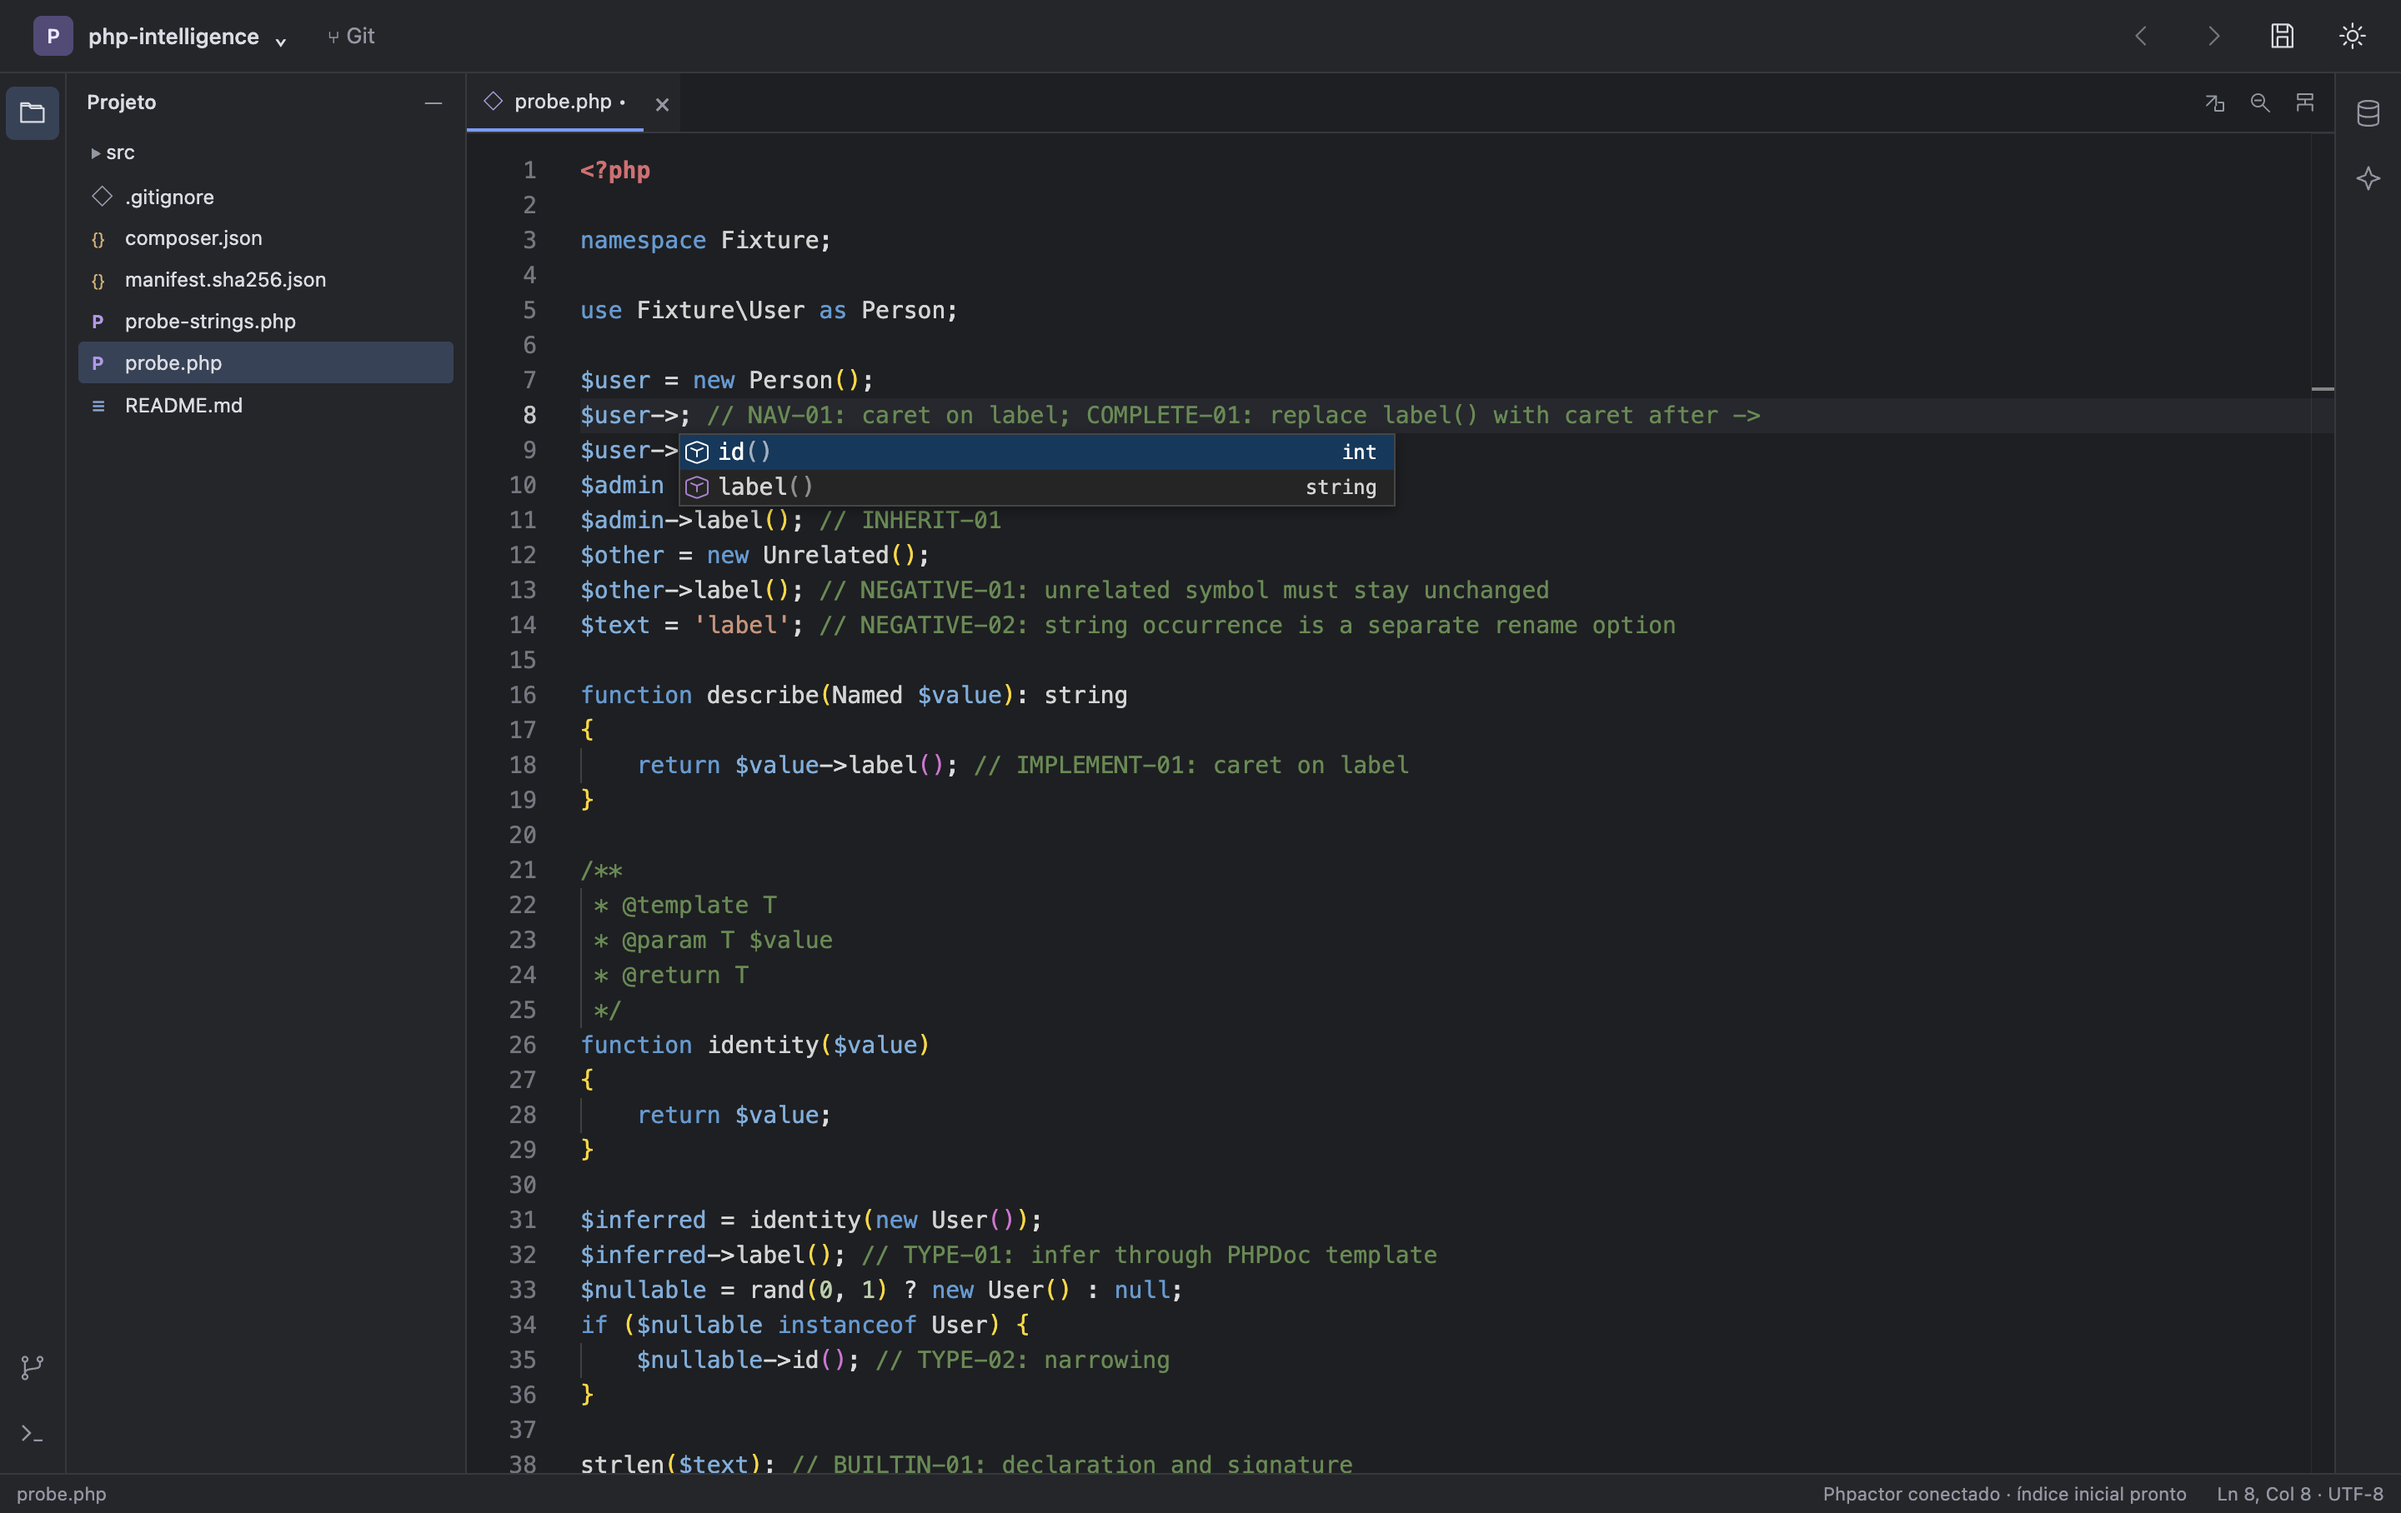
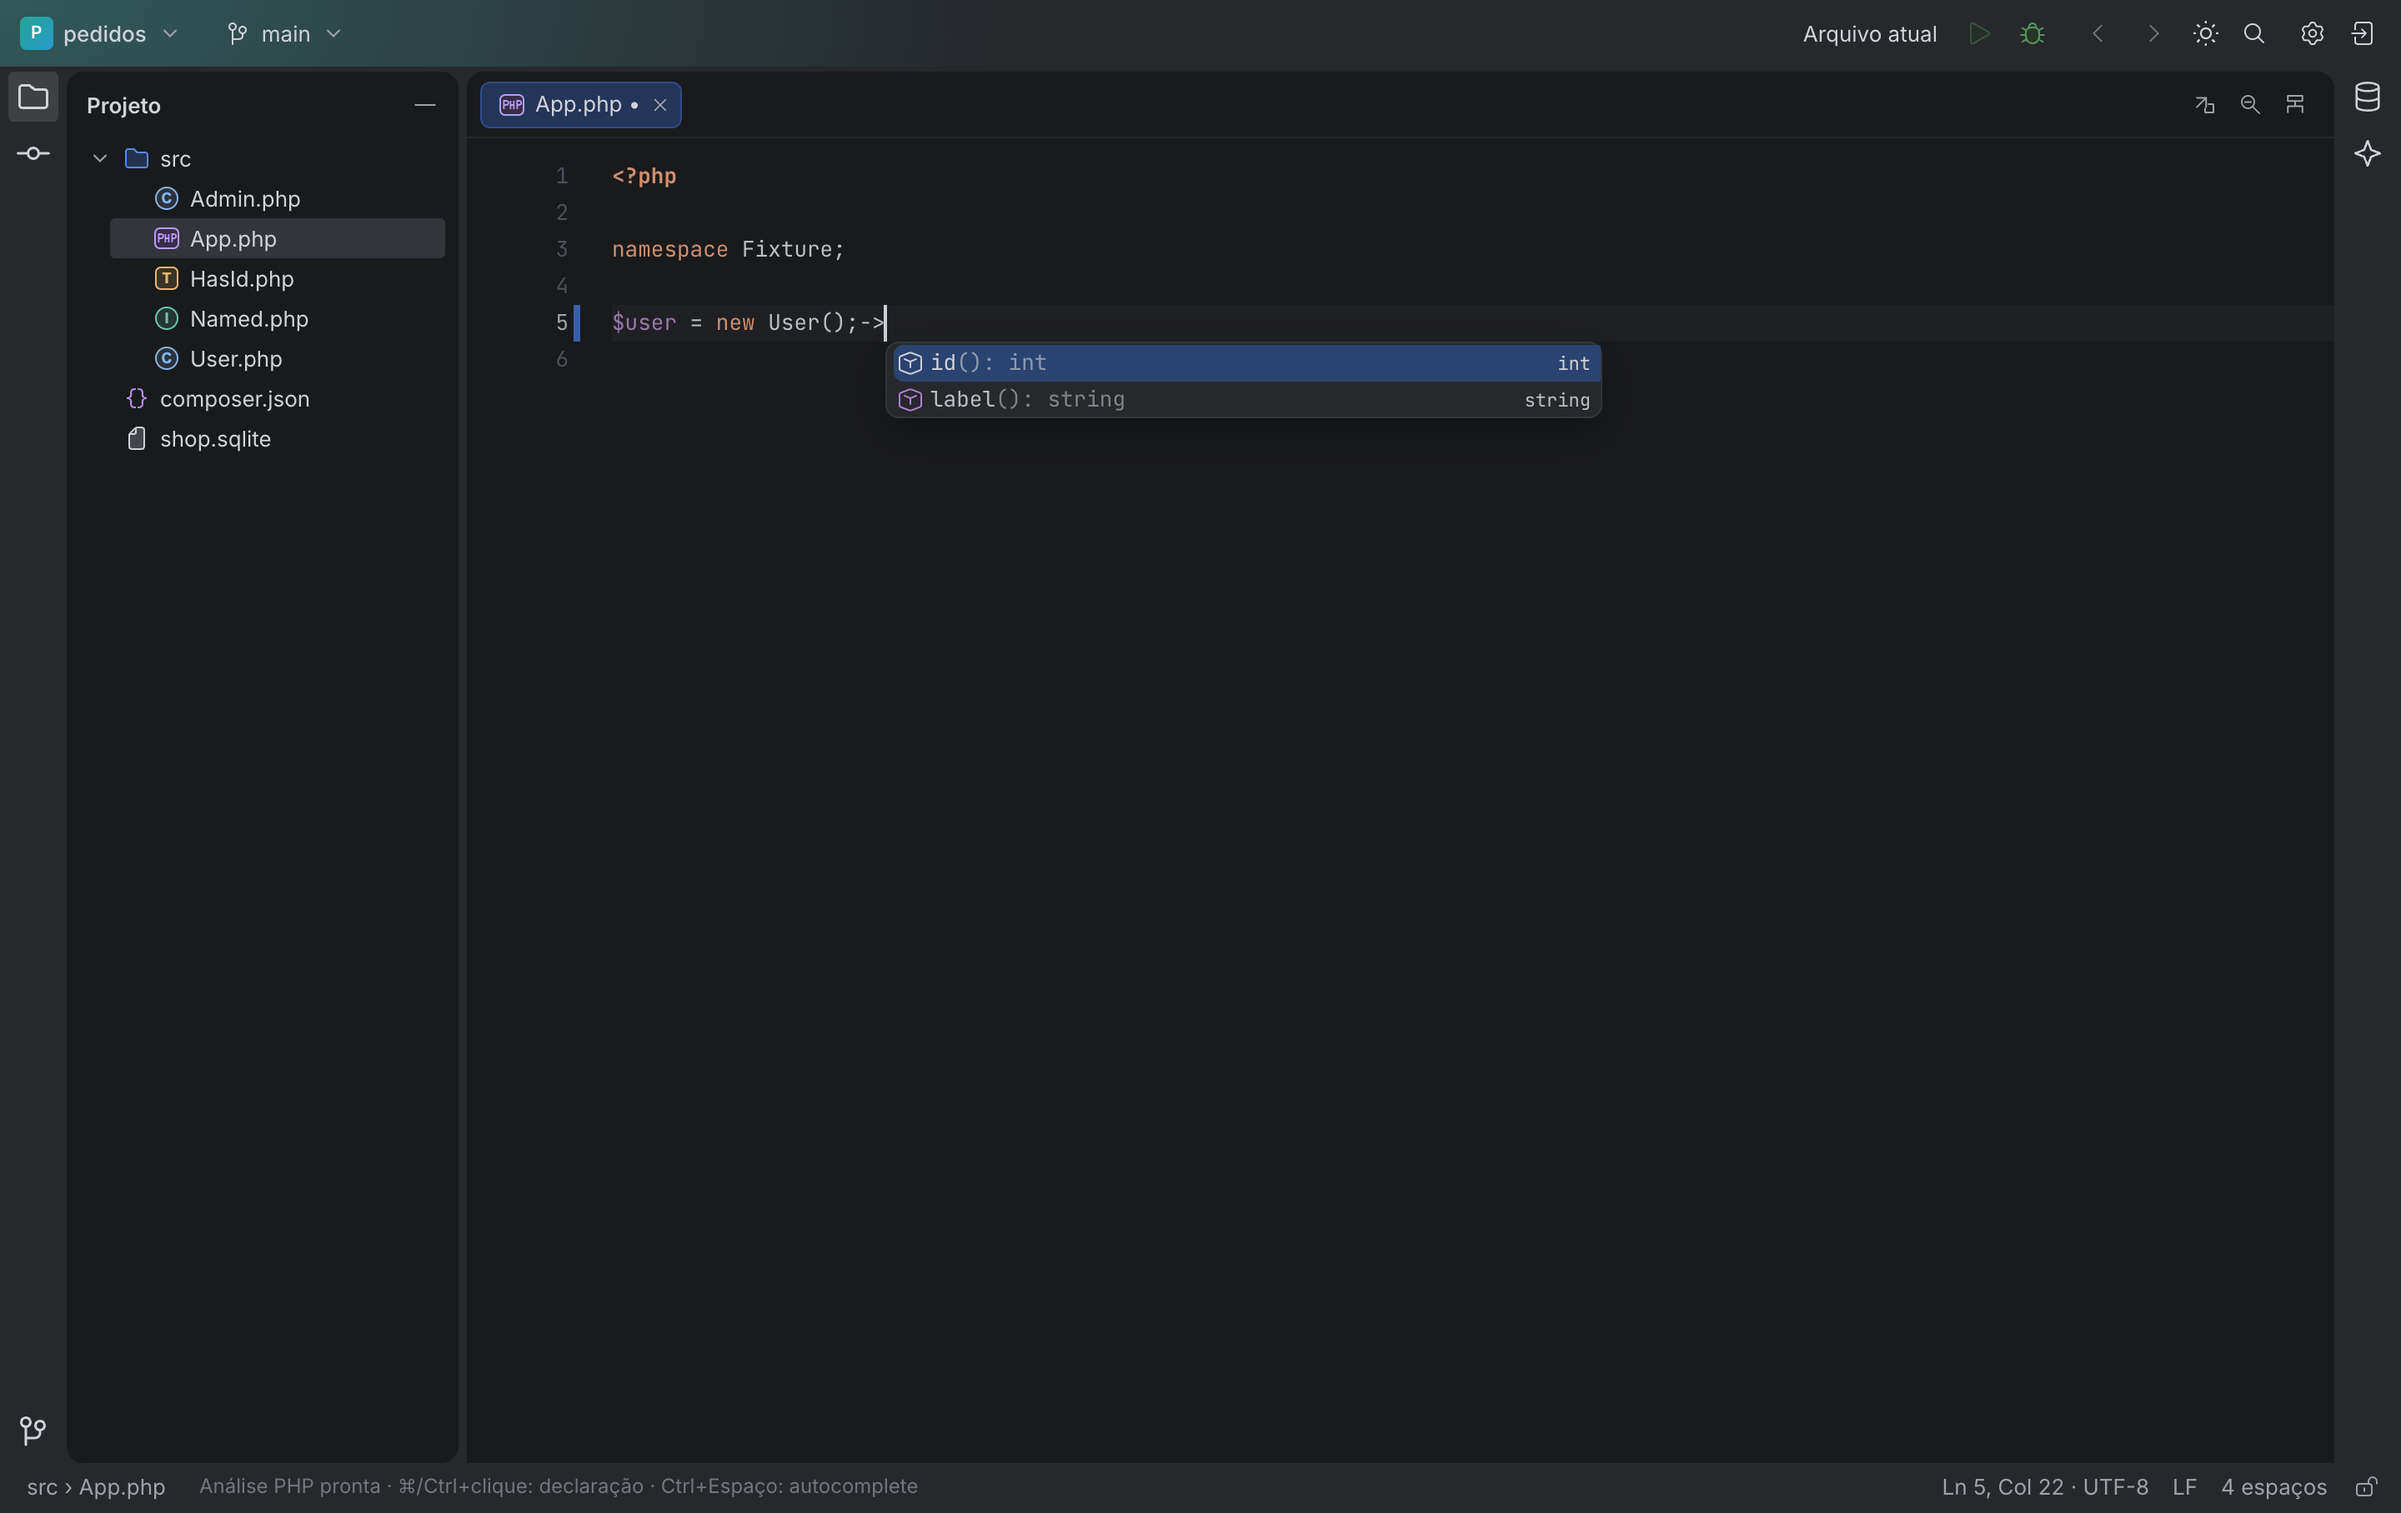
Show the current PHP IDE workspace on the website.

diff --git a/website/index.html b/website/index.html
@@ -43,7 +43,7 @@
       <div class="section-heading"><div><span class="eyebrow">POR DENTRO DA IDE</span><h2 id="prints-titulo">Veja o ambiente de trabalho.</h2></div><p>Capturas da aplicação com projetos de teste.<br>Clique nas imagens para ver em tamanho original.</p></div>
       <div class="screenshot-grid">
         <figure class="product-shot"><a href="./screenshots/php-navigation.png" target="_blank" rel="noopener" aria-label="Ampliar captura do editor PHP (nova aba)"><img src="./screenshots/php-navigation.png" width="2880" height="1816" loading="lazy" alt="Editor PHP com interface Named aberta, árvore de arquivos e painel de consulta ao agente."></a><figcaption><strong>O código no centro.</strong> Arquivos, abas e ferramentas lado a lado.</figcaption></figure>
-        <figure class="product-shot"><a href="./screenshots/database.png" target="_blank" rel="noopener" aria-label="Ampliar captura do banco de dados (nova aba)"><img src="./screenshots/database.png" width="1000" height="700" loading="lazy" alt="Código PHP junto ao painel de fontes de dados e uma tabela de clientes de teste, com paginação."></a><figcaption><strong>Dados junto ao projeto.</strong> Explore tabelas sem sair do editor.</figcaption></figure>
+        <figure class="product-shot"><a href="./screenshots/database.png" target="_blank" rel="noopener" aria-label="Ampliar captura do banco de dados (nova aba)"><img src="./screenshots/database.png" width="2880" height="1816" loading="lazy" alt="Código PHP junto ao painel Database e uma tabela de clientes de teste, com paginação."></a><figcaption><strong>Dados junto ao projeto.</strong> Explore tabelas sem sair do editor.</figcaption></figure>
       </div>
     </section>
     <section id="downloads" class="download-section"><div class="wrap">

diff --git a/website/en.html b/website/en.html
@@ -43,7 +43,7 @@
       <div class="section-heading"><div><span class="eyebrow">INSIDE THE IDE</span><h2 id="prints-titulo">Explore the workspace.</h2></div><p>Application screenshots using test projects.<br>Click an image to view it at full size.</p></div>
       <div class="screenshot-grid">
         <figure class="product-shot"><a href="./screenshots/php-navigation.png" target="_blank" rel="noopener" aria-label="Enlarge the PHP editor screenshot (new tab)"><img src="./screenshots/php-navigation.png" width="2880" height="1816" loading="lazy" alt="PHP editor with the Named interface open, a file tree, and the agent query panel."></a><figcaption><strong>Code takes center stage.</strong> Files, tabs, and tools side by side.</figcaption></figure>
-        <figure class="product-shot"><a href="./screenshots/database.png" target="_blank" rel="noopener" aria-label="Enlarge the database screenshot (new tab)"><img src="./screenshots/database.png" width="1000" height="700" loading="lazy" alt="PHP code alongside data sources and a paginated table of test customers."></a><figcaption><strong>Data alongside your project.</strong> Browse tables without leaving the editor.</figcaption></figure>
+        <figure class="product-shot"><a href="./screenshots/database.png" target="_blank" rel="noopener" aria-label="Enlarge the database screenshot (new tab)"><img src="./screenshots/database.png" width="2880" height="1816" loading="lazy" alt="PHP code alongside the Database panel and a paginated table of test customers."></a><figcaption><strong>Data alongside your project.</strong> Browse tables without leaving the editor.</figcaption></figure>
       </div>
     </section>
     <section id="downloads" class="download-section"><div class="wrap">

diff --git a/website/screenshots/README.md b/website/screenshots/README.md
@@ -1,9 +1,11 @@
 # Capturas do PHP IDE
 
-Imagens existentes da aplicação, copiadas sem montagem visual de `.artifacts/` em 23/10/2026:
+Imagens de 24/10/2026, da interface atual (PHP IDE 0.2.14):
 
-- `php-completion.png`: `completion-members.png`, autocomplete de métodos no fixture PHP.
-- `php-navigation.png`: `ide.png`, editor com `Named.php` aberto.
-- `database.png`: `workbench-compact.png`, editor e tabela de dados do fixture.
+- `php-completion.png`: autocomplete de métodos em `App.php`, com tipos de retorno.
+- `php-navigation.png`: `Named.php` aberto, árvore do projeto e painel do agente.
+- `database.png`: editor, painel Database e grade da tabela `customers`.
 
-São registros de desenvolvimento, não uma garantia da aparência de cada release. Não são capturas do PhpStorm. Nenhuma captura de referência proprietária foi incorporada. Os dados mostrados são de testes; estas imagens não comprovam compatibilidade funcional.
+Foram renderizadas no frontend atual, em viewport 1440×908 (2880×1816), com os workbenches fixados de Git, Agents, Database e PHP Intelligence. O macOS não permitiu fotografar a janela nativa. O projeto `pedidos` e as linhas de `customers` são sintéticos (`example.invalid`). A barra de sugestões SQL, que o plugin de banco mostra acima de arquivos PHP, ficou oculta nestes três quadros para o editor, o autocomplete, o agente e a grade permanecerem legíveis.
+
+São registros da nossa interface, não uma garantia da aparência de cada release. Não são capturas do PhpStorm. Nenhuma captura de referência proprietária foi incorporada. Os dados mostrados são de teste; estas imagens não comprovam compatibilidade funcional.
